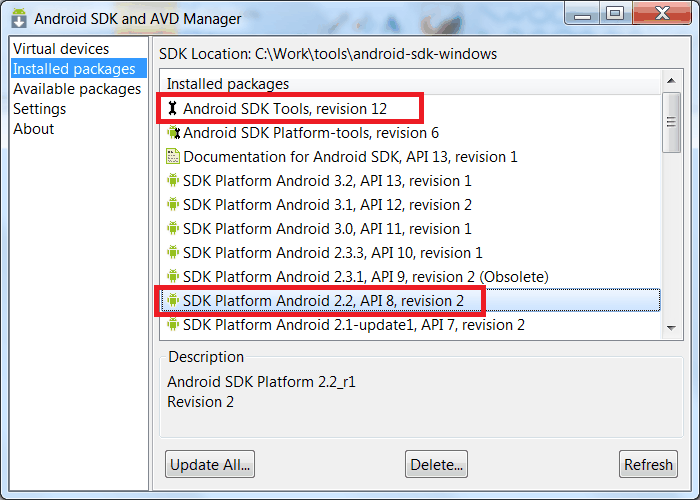
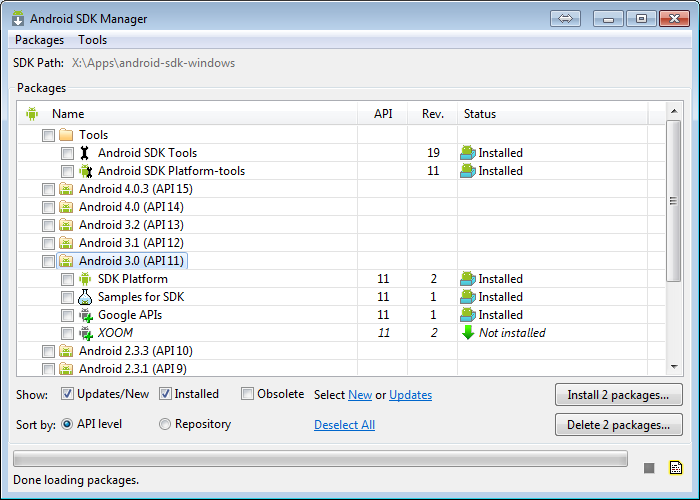
tutorial updated
git-svn-id: file://localhost/home/tolik/svnrepo/trunk@8651 c5418bc3-7546-4aae-8bad-fa6f2f3e53e6

diff --git a/opencv/doc/tutorials/introduction/android_binary_package/android_binary_package.rst b/opencv/doc/tutorials/introduction/android_binary_package/android_binary_package.rst
@@ -5,14 +5,15 @@
 Using Android binary package with Eclipse
 *****************************************
 
-This tutorial was tested using Ubuntu 10.04 and Windows 7 SP1 operating systems. Nevertheless, it should also work on any other **OS**\ es supported by Android SDK (including Mac OS X). If you encounter errors after following the steps described here, feel free to contact us via *android-opencv* discussion group https://groups.google.com/group/android-opencv/ and we will try to help you.
+This tutorial was tested using Ubuntu 10.04 and Windows 7 SP1 operating systems. 
+Nevertheless, it should also work on any other **OS**\ es supported by Android SDK (including Mac OS X). 
+If you encounter errors after following the steps described here, feel free to contact us via `android-opencv <https://groups.google.com/group/android-opencv/>`_ discussion group and we will try to help you.
 
 Quick environment setup for Android development
 ===============================================
 
-If you are making a clean environment installation then you can try **T**\ egra **A**\ ndroid **D**\ evelopment **P**\ ack (*TADP*) released by *NVIDIA*:
-
-  http://developer.nvidia.com/tegra-android-development-pack
+If you are making a clean environment installation then you can try `Tegra Android Development Pack <http://developer.nvidia.com/tegra-android-development-pack>`_ 
+(**TADP**) released by **NVIDIA**:
 
 It will cover all of the environment set up automatically and you can go to the next step :ref:`Get_the_OpenCV_package_for_Android_development` right after automatic setup.
 
@@ -45,9 +46,10 @@ You need the following tools to be installed:
 
 #. **Sun JDK 6**
 
-   Visit http://www.oracle.com/technetwork/java/javase/downloads/index.html and download installer for your OS.
+   Visit `Java SE Downloads page <http://www.oracle.com/technetwork/java/javase/downloads/>`_ and download installer for your OS.
 
-   Here is a detailed :abbr:`JDK (Java Development Kit)` installation guide for Ubuntu and Mac OS: http://source.android.com/source/initializing.html#installing-the-jdk (only JDK sections are applicable for OpenCV)
+   Here is a detailed :abbr:`JDK (Java Development Kit)` `installation guide <http://source.android.com/source/initializing.html#installing-the-jdk>`_ 
+   for Ubuntu and Mac OS (only JDK sections are applicable for OpenCV)
 
    .. note:: OpenJDK is not usable for Android development because Android SDK supports only Sun JDK.
         If you use Ubuntu, after installation of Sun JDK you should run the following command to set Sun java environment:
@@ -60,7 +62,7 @@ You need the following tools to be installed:
 
    Get the latest Android SDK from http://developer.android.com/sdk/index.html
 
-   Here is Google's install guide for SDK http://developer.android.com/sdk/installing.html
+   Here is Google's `install guide <http://developer.android.com/sdk/installing.html>`_ for SDK.
 
    .. note:: If you choose SDK packed into Windows installer, then you should have 32-bit JRE installed. It is not needed for Android development, but installer is x86 application and requires 32-bit Java runtime.
 
@@ -80,36 +82,34 @@ You need the following tools to be installed:
 
    You need the following SDK components to be installed:
 
-   * *Android SDK Tools, revision12* or newer
+   * *Android SDK Tools, revision14* or newer
 
      Older revisions should also work, but they are not recommended.
 
-   * *SDK Platform Android 2.2, API 8, revision 2* (also known as  *android-8*)
+   * *SDK Platform Android 3.0, API 11* (also known as  *android-11*)
 
-     This is minimal platform supported by OpenCV Java API. And it is set as default for OpenCV distribution. It is possible to use newer platform with OpenCV package, but it requires to edit OpenCV project settings.
-
+     The minimal platform supported by OpenCV Java API is **Android 2.2** (API 8). This is also the minimum API Level required for the provided samples to run.
+     See the ``<uses-sdk android:minSdkVersion="8"/>`` tag in their **AndroidManifest.xml** file.
+     But for successful compilation of some samples the **target** platform should be set to Android 3.0 (API 11) or higher. It will not block them from running on  Android 2.2+.
+     
      .. image:: images/android_sdk_and_avd_manager.png
-        :height: 400px 
-        :alt: Android SDK and AVD manager
+        :height: 500px 
+        :alt: Android SDK Manager
         :align: center
      
-     See `Adding SDK Components
-     <http://developer.android.com/sdk/adding-components.html>`_ for help with installing/updating SDK components.
+     See `Adding SDK Components  <http://developer.android.com/sdk/adding-components.html>`_ for help with installing/updating SDK components.
 
 #. **Eclipse IDE**
 
-   Check the `Android SDK System Requirements
-   <http://developer.android.com/sdk/requirements.html>`_ document for a list of Eclipse versions that are compatible with the Android SDK. 
-   For OpenCV 2.4.0 we recommend Eclipse 3.6 (Helios) or later versions. They work well for OpenCV under both Windows and Linux.
+   Check the `Android SDK System Requirements <http://developer.android.com/sdk/requirements.html>`_ document for a list of Eclipse versions that are compatible with the Android SDK. 
+   For OpenCV 2.4.0 we recommend Eclipse 3.7 (Indigo) or later versions. They work well for OpenCV under both Windows and Linux.
    
-   If you have no Eclipse installed, you can download it from this location:
-    
-      http://www.eclipse.org/downloads/ 
+   If you have no Eclipse installed, you can get it from the `download page  <http://www.eclipse.org/downloads/>`_.
       
 #. **ADT plugin for Eclipse**
 
-   This instruction is copied from http://developer.android.com/sdk/eclipse-adt.html#downloading
-   . Please, visit that page if you have any troubles with ADT plugin installation.
+   This instruction is copied from `Android Developers site <http://developer.android.com/sdk/eclipse-adt.html>`_.
+   Please, visit `that page <http://developer.android.com/sdk/eclipse-adt.html#downloading>`_ if you have any troubles with :abbr:`ADT(Android Development Tools)` plugin installation.
 
    Assuming that you have Eclipse IDE installed, as described above, follow these steps to download and install the ADT plugin:
 
@@ -136,7 +136,7 @@ You need the following tools to be installed:
 Get the OpenCV package for Android development
 ==============================================
 
-#. Go to the http://sourceforge.net/projects/opencvlibrary/files/opencv-android/ and download the latest available version. Currently it is |opencv_android_bin_pack_url|_
+#. Go to the `OpenCV dowload page on SourceForge <http://sourceforge.net/projects/opencvlibrary/files/opencv-android/>`_ and download the latest available version. Currently it is |opencv_android_bin_pack_url|_
 
 #. Create new folder for Android+OpenCV development.
 
